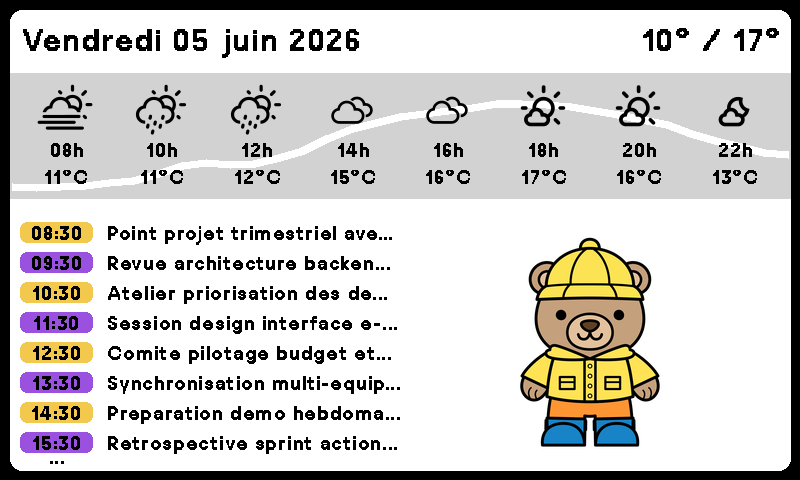
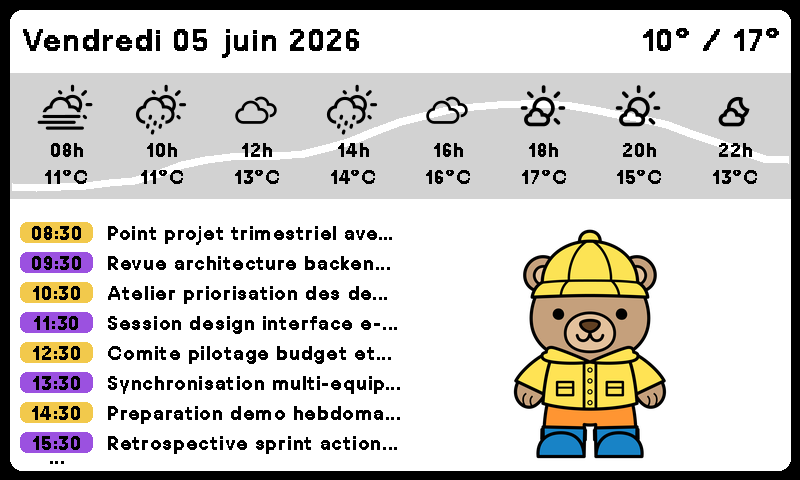
feat: add debug logging to weather utilities and meteo_calendar_bear

diff --git a/screens/meteo_calendar_bear.py b/screens/meteo_calendar_bear.py
@@ -38,6 +38,7 @@ SIMULATE_LONG_EVENTS = os.getenv("SIMULATE_LONG_EVENTS", "0").strip().lower() in
     "yes",
     "on",
 }
+BEAR_DEBUG_LOGS = os.getenv("BEAR_DEBUG_LOGS", "1").strip().lower() in {"1", "true", "yes", "on"}
 
 DEFAULT_BEAR_DISPLAY_CONFIG = {
     "available_images": [
@@ -69,6 +70,11 @@ DEFAULT_BEAR_DISPLAY_CONFIG = {
         {"min_temp": -999, "image": "very_cold.png"},
     ],
 }
+
+
+def _log(message, always=False):
+    if always or BEAR_DEBUG_LOGS:
+        print(f"[meteo_calendar_bear] {message}", flush=True)
 
 
 def load_font(size, bold=False):
@@ -200,7 +206,7 @@ def load_bear_display_config():
     except FileNotFoundError:
         pass
     except (OSError, json.JSONDecodeError) as exc:
-        print(f"Config ours invalide ({exc}), utilisation des regles par defaut.")
+        _log(f"Config ours invalide ({exc}), utilisation des regles par defaut.", always=True)
 
     if not isinstance(config.get("available_images"), list):
         config["available_images"] = DEFAULT_BEAR_DISPLAY_CONFIG["available_images"]
@@ -261,7 +267,12 @@ def select_bear_illustration(weather):
         filename = config.get("default_image") or "mild_clear.png"
 
     path = os.path.join(BEAR_IMAGES_DIR, filename)
-    return path if os.path.exists(path) else None
+    if os.path.exists(path):
+        _log(f"Selection ours: {filename} (temp_ref={temp_ref}, rain={has_rain}, snow={has_snow})")
+        return path
+
+    _log(f"Image ours introuvable: {path}", always=True)
+    return None
 
 
 def paste_bear_illustration(base_image, image_path, box, margin=10):
@@ -403,14 +414,19 @@ def get_weather():
             today_min = "N/A"
             today_max = "N/A"
 
-        return {
+        weather = {
             "today_min": today_min,
             "today_max": today_max,
             "hourly": build_two_hour_slots(today_points),
             "today_trend": build_temp_trend(today_points, start_hour=7.5, end_hour=22.5),
         }
+        _log(
+            f"Meteo OK pour {CITY}: points={len(today_points)}, hourly={len(weather['hourly'])}, "
+            f"min={today_min}, max={today_max}"
+        )
+        return weather
     except Exception as exc:
-        print(f"Meteo indisponible ({exc}), utilisation d'une valeur par defaut.")
+        _log(f"Meteo indisponible ({exc}), utilisation d'une valeur par defaut.", always=True)
         return {
             "today_min": "N/A",
             "today_max": "N/A",
@@ -476,21 +492,21 @@ def get_events():
                             added_for_calendar += 1
                 except Exception as exc:
                     had_error = True
-                    print(f"Evenement ignore ({exc}) : {calendar_url}")
+                    _log(f"Evenement ignore ({exc}) : {calendar_url}", always=True)
 
-            print(f"Calendrier charge ({added_for_calendar} evenement(s)) : {calendar_url}")
+            _log(f"Calendrier charge ({added_for_calendar} evenement(s)) : {calendar_url}")
         except Exception as exc:
             had_error = True
-            print(f"Calendrier indisponible ({exc}) : {calendar_url}")
+            _log(f"Calendrier indisponible ({exc}) : {calendar_url}", always=True)
 
     if not had_success:
-        print("Aucun calendrier accessible, aucun evenement affiche.")
+        _log("Aucun calendrier accessible, aucun evenement affiche.", always=True)
         return [], []
 
     if events and all(event["summary"].strip().lower() == "busy" for event in events):
-        print("Les flux ICS retournent uniquement 'Busy'. Utilise les liens ICS prives (adresse secrete) ou rends les details des evenements publics dans Google Agenda.")
+        _log("Les flux ICS retournent uniquement 'Busy'. Utilise les liens ICS prives (adresse secrete) ou rends les details des evenements publics dans Google Agenda.", always=True)
     elif had_error:
-        print("Certains calendriers n'ont pas pu etre recuperes.")
+        _log("Certains calendriers n'ont pas pu etre recuperes.", always=True)
 
     events = sorted(events, key=lambda x: x["start"])
     today_events = [event for event in events if event["start"].date() == today]
@@ -627,9 +643,9 @@ def render_image(weather, events, output_path=None):
 
     right_box = (
         outer_left_margin + col_w,
-        today_y_start,
+        today_y_start - 10,
         img.width - outer_right_margin,
-        img.height - card_margin - 8,
+        img.height - card_margin + 5,
     )
     bear_path = select_bear_illustration(weather)
     paste_bear_illustration(img, bear_path, right_box, margin=0)

diff --git a/screens/weather_utils.py b/screens/weather_utils.py
@@ -1,3 +1,4 @@
+import os
 from datetime import datetime, timedelta, timezone
 
 import requests
@@ -5,6 +6,12 @@ import requests
 
 OPENMETEO_GEOCODING_URL = "https://geocoding-api.open-meteo.com/v1/search"
 OPENMETEO_FORECAST_URL = "https://api.open-meteo.com/v1/forecast"
+WEATHER_DEBUG_LOGS = os.getenv("WEATHER_DEBUG_LOGS", "1").strip().lower() in {"1", "true", "yes", "on"}
+
+
+def _log(message, always=False):
+    if always or WEATHER_DEBUG_LOGS:
+        print(f"[weather_utils] {message}", flush=True)
 
 
 def format_temp(value):
@@ -60,6 +67,7 @@ def resolve_city_coordinates(city_name):
         queries.append({"name": base_name})
 
     for query in queries:
+        _log(f"Geocoding query: name={query['name']} country={query.get('country_code')}")
         params = {
             "name": query["name"],
             "count": 5,
@@ -77,6 +85,7 @@ def resolve_city_coordinates(city_name):
             continue
 
         best = results[0]
+        _log(f"Geocoding OK: {best.get('name')} ({best['latitude']}, {best['longitude']})")
         return best["latitude"], best["longitude"]
 
     raise ValueError(f"Ville introuvable: {city_name}")
@@ -84,6 +93,7 @@ def resolve_city_coordinates(city_name):
 
 def fetch_openmeteo_points(city_name):
     latitude, longitude = resolve_city_coordinates(city_name)
+    _log(f"Open-Meteo fetch start: city={city_name}, lat={latitude}, lon={longitude}")
     response = requests.get(
         OPENMETEO_FORECAST_URL,
         params={
@@ -126,6 +136,11 @@ def fetch_openmeteo_points(city_name):
             today_points.append(point)
         elif dt_city.date() == tomorrow:
             tomorrow_points.append(point)
+
+    _log(
+        f"Open-Meteo fetch OK: hours={len(times)}, today_points={len(today_points)}, "
+        f"tomorrow_points={len(tomorrow_points)}"
+    )
 
     return today, tomorrow, today_points, tomorrow_points
 

diff --git a/main.py b/main.py
@@ -55,6 +55,8 @@ def parse_args():
 def main():
     args = parse_args()
 
+    print("Demarrage du processus de generation d'ecran.")
+
     screen_name = args.screen
     if screen_name is None:
         schedule_file = args.schedule_file or os.getenv("SCREEN_SCHEDULE_FILE")
